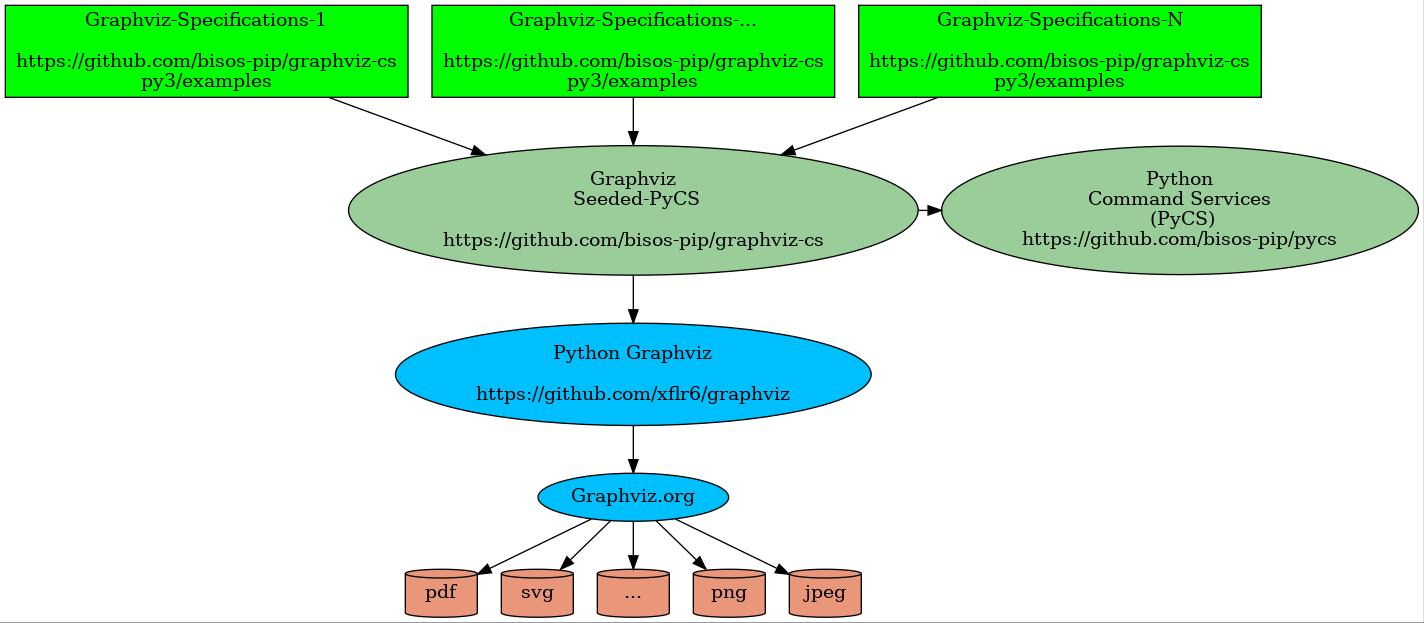
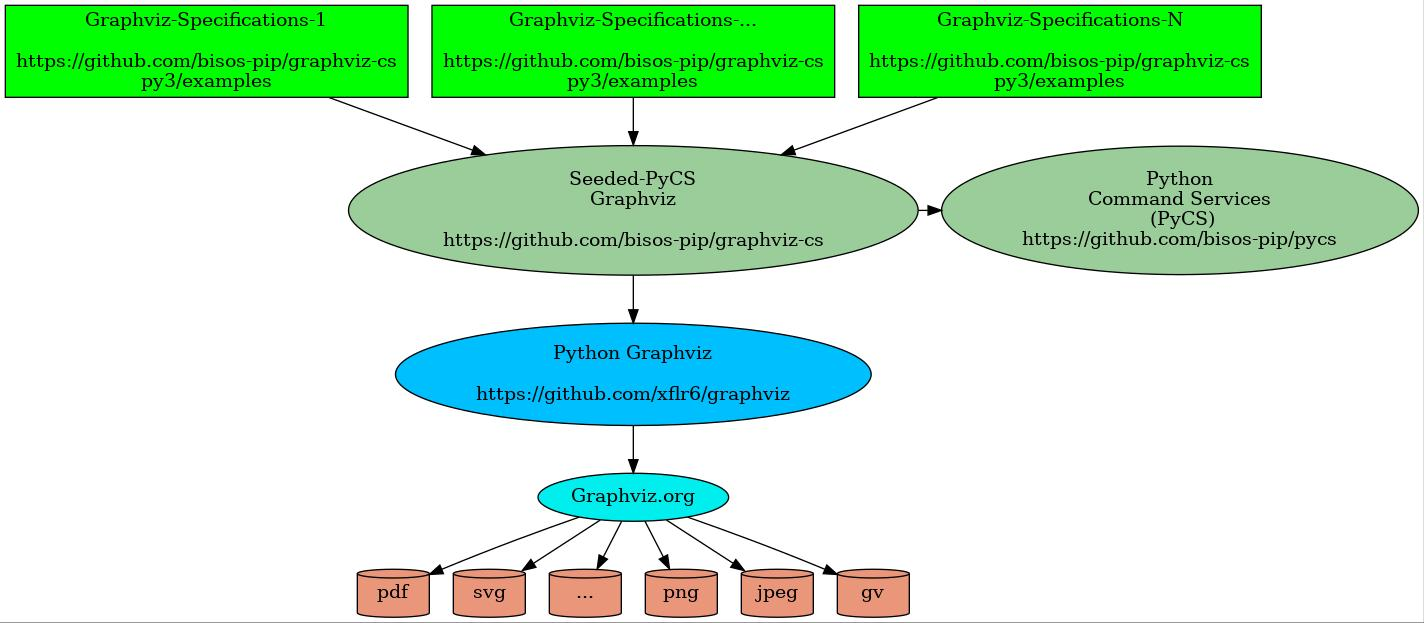
Better readme-graphviz.cs.

Changed region(s): [[0.2472, 0.7624, 0.6489, 1.0], [0.4017, 0.2745, 0.4944, 0.3355]]

diff --git a/py3/images/readme-graphviz.cs b/py3/images/readme-graphviz.cs
@@ -53,7 +53,7 @@ def graphvizLayers(
 
     with d.subgraph() as s:
         s.attr(rank='same')
-        s.node('graphviz', 'Graphviz.org', style='filled', fillcolor='deepskyblue')
+        s.node('graphviz', 'Graphviz.org', style='filled', fillcolor='cyan2')
 
     with d.subgraph() as s:
         s.attr(rank='same')
@@ -62,6 +62,7 @@ def graphvizLayers(
         s.node('etcOutput', '...', shape='cylinder', style='filled', fillcolor='darksalmon')
         s.node('png', 'png', shape='cylinder', style='filled', fillcolor='darksalmon')
         s.node('jpeg', 'jpeg', shape='cylinder', style='filled', fillcolor='darksalmon')
+        s.node('gv', 'gv', shape='cylinder', style='filled', fillcolor='darksalmon')
 
     d.edge('seededCsSpec1', 'graphvizSeed')
     d.edge('seededCsSpecDots', 'graphvizSeed')
@@ -77,9 +78,19 @@ def graphvizLayers(
     d.edge('graphviz', 'png')
     d.edge('graphviz', 'jpeg')
     d.edge('graphviz', 'etcOutput')
+    d.edge('graphviz', 'gv')
 
     return d
 
+""" #+begin_org
+#+begin_src sh :results output :session shared
+readme-graphviz.cs --format=evince  -i ngProcess graphvizLayers
+#+end_src
+#+RESULTS:
+: Running:: evince graphvizLayers.pdf &
+: Graph saved as 'graphvizLayers.pdf'
+: ngProcess: Processed All
+#+end_org """
 
 ####+BEGIN: b:py3:cs:orgItem/basic :type "=Seed Setup= " :title "*Common Facilities*" :comment "General"
 """ #+begin_org
